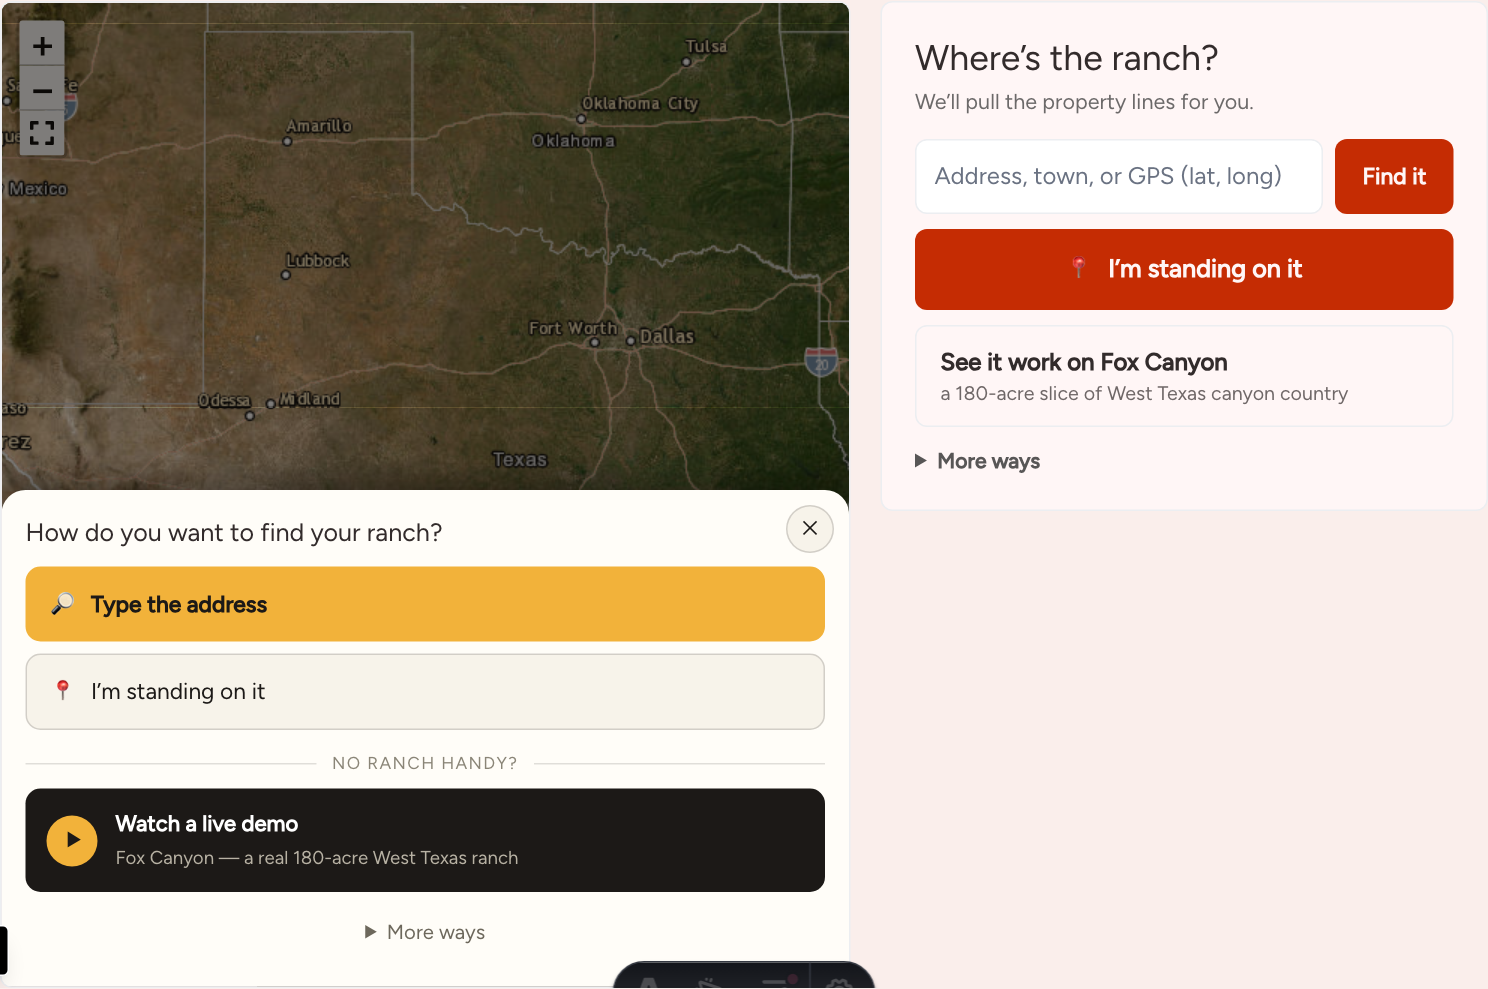
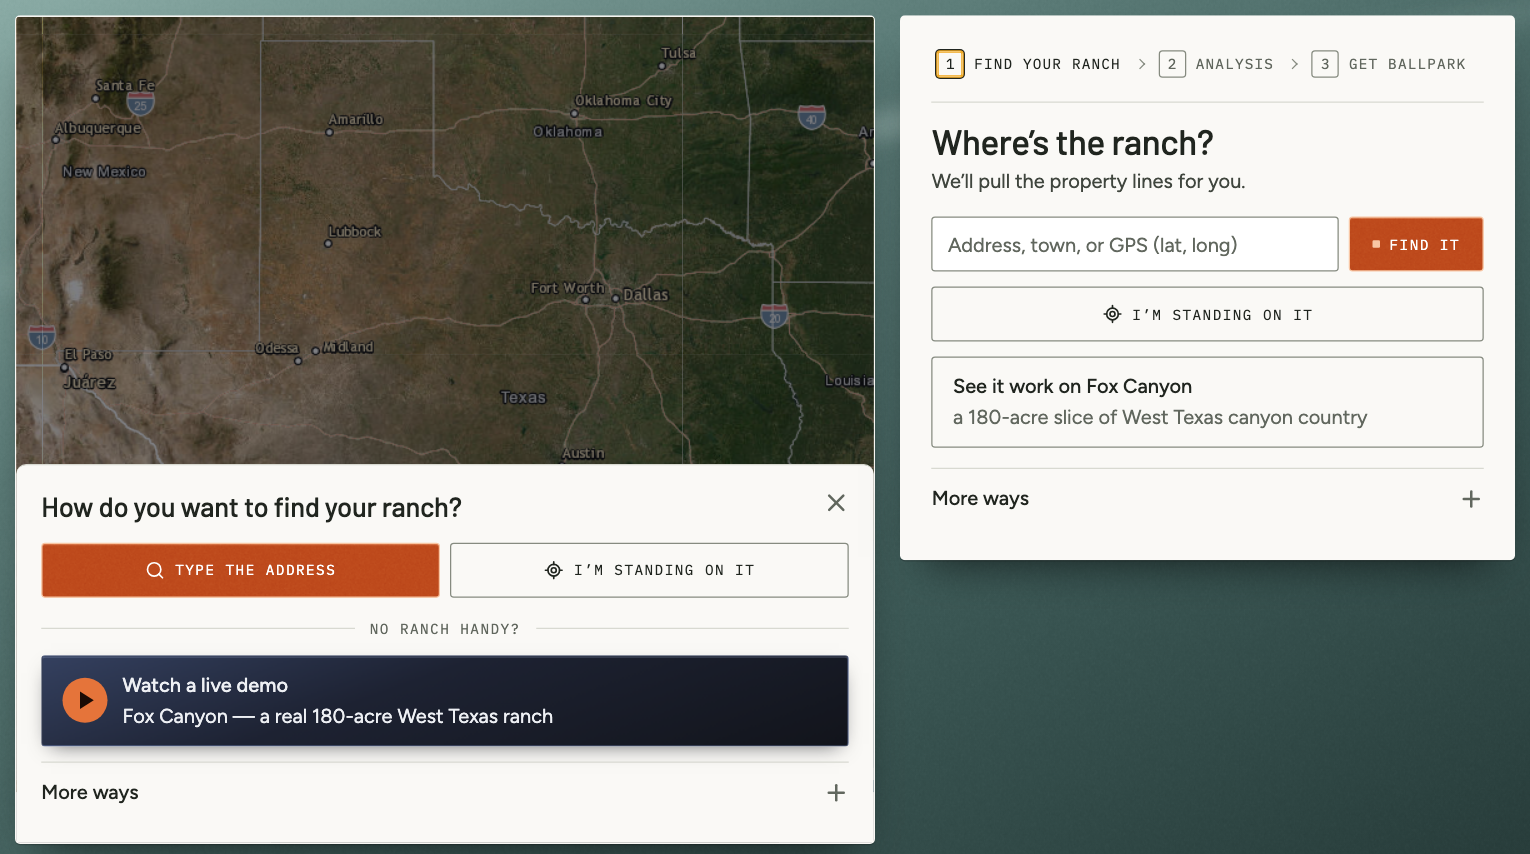
fix(services): retake the ballpark and calculator screenshots from the rebuilt tools
The old shots showed the pre-redesign tools (red buttons, emoji, a pink panel), and the ballpark one had the Astro dev toolbar baked into its bottom edge. Both are retaken by day from the rebuilt tools, which also updates the two tools' share images. Alt text says what the new shots show.

diff --git a/src/layouts/components/services/imageNotes.ts b/src/layouts/components/services/imageNotes.ts
@@ -80,7 +80,7 @@ export const imageNotes: Record<string, ImageNote> = {
   },
   // remote tools (screenshots of the tools the page describes)
   "/images/tools/ballpark.png": {
-    alt: "Screenshot of the instant ballpark: a satellite map of Texas beside a panel that asks where the ranch is, with an address box and an I'm standing on it button.",
+    alt: "Screenshot of the instant ballpark: a satellite map of Texas that asks how you want to find your ranch, beside a panel with an address box, a Find it button and an I'm standing on it button.",
     dim: false,
     caption: "The instant ballpark, ready for an address.",
   },
@@ -90,7 +90,7 @@ export const imageNotes: Record<string, ImageNote> = {
     caption: "A ranch map made with the tool, for the 180-acre Fox Canyon sample.",
   },
   "/images/tools/brush-roi.png": {
-    alt: "Screenshot of the brush return calculator: settings for the place on the left, and results for grass, cattle, water, fire, wildlife and cost share on the right.",
+    alt: "Screenshot of the brush return calculator: settings for the place on the left, and what they give back in grazing value, grass, cattle, water and fire on the right.",
     dim: false,
     caption: "The calculator with example settings on the left and what they give back on the right.",
   },
